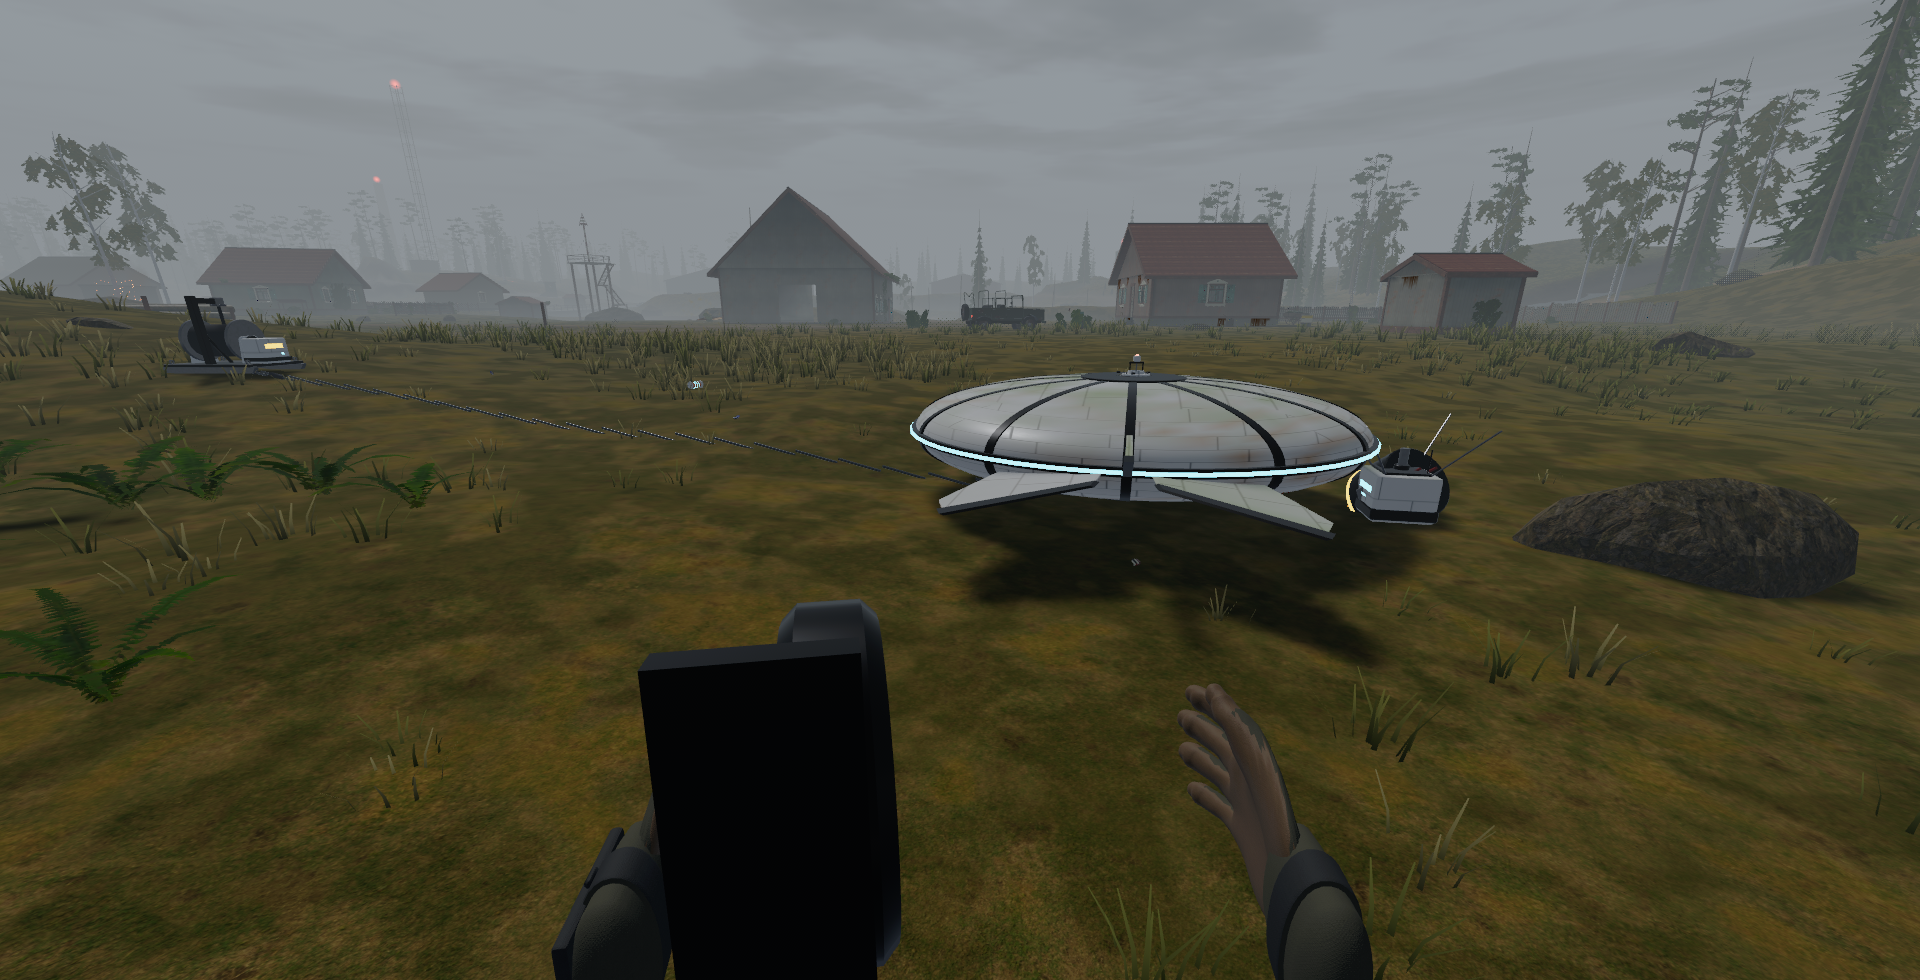
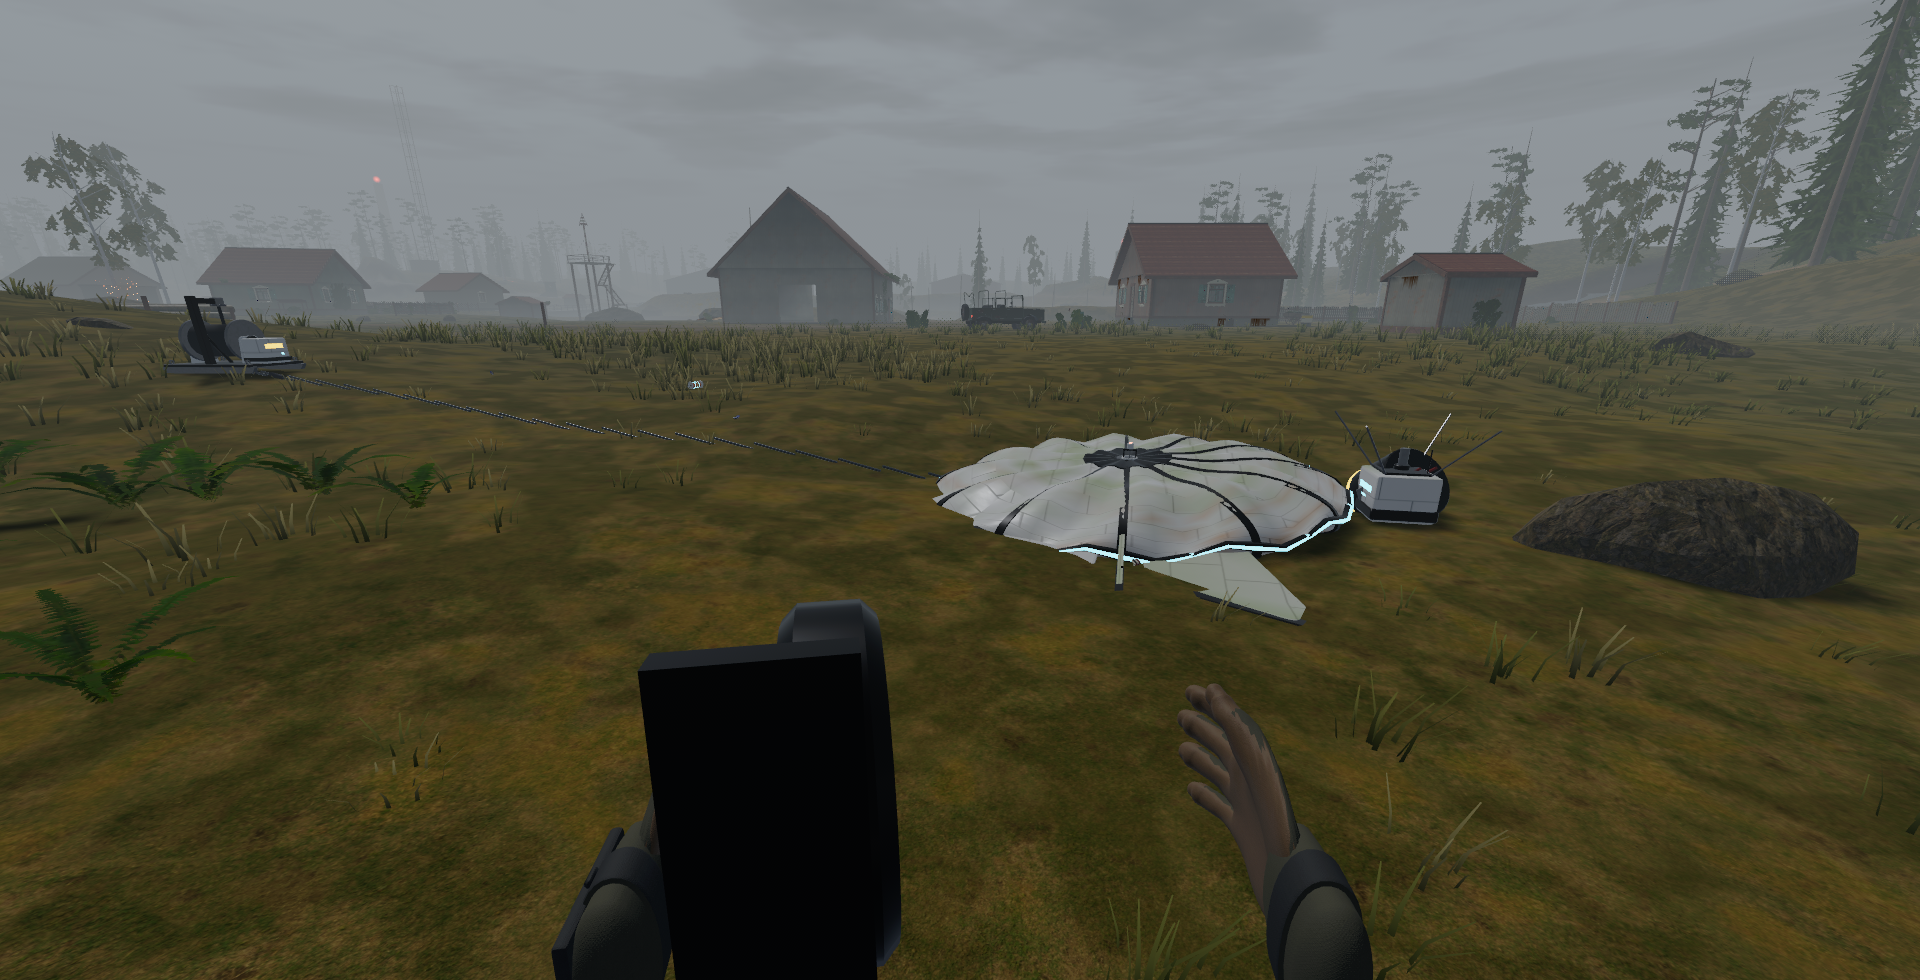
Salvage sheet: the spotter's envelope draped on the ground
Claude-Session: https://claude.ai/code/session_01UYS29AKspvCeepAatEb31x

diff --git a/docs/shots/salvage/README.md b/docs/shots/salvage/README.md
@@ -74,7 +74,8 @@ bottom 100 px cut off, one of its parts held low in the left hand.
   visor and searchlight still on it. To the right, its junction box with
   the breaker sitting on top (live while it had power).
 - `wreck_spotter.png`: a spotter at 6 m, its camera in hand. The slack
-  envelope lies with its gas valve on the crown; beside it, the pod with
+  envelope lies draped on the grass, creased along its gores, a fin flat
+  under its rim, with its gas valve on the crown; beside it, the pod with
   its camera and searchlight. Up the field, the winch, its drum and motor
   bolted to the skid, with the tether lying slack to the wreck.
 - `wreck_plough.png`: a plough at 8 m, side on, its beacon in hand. Its
